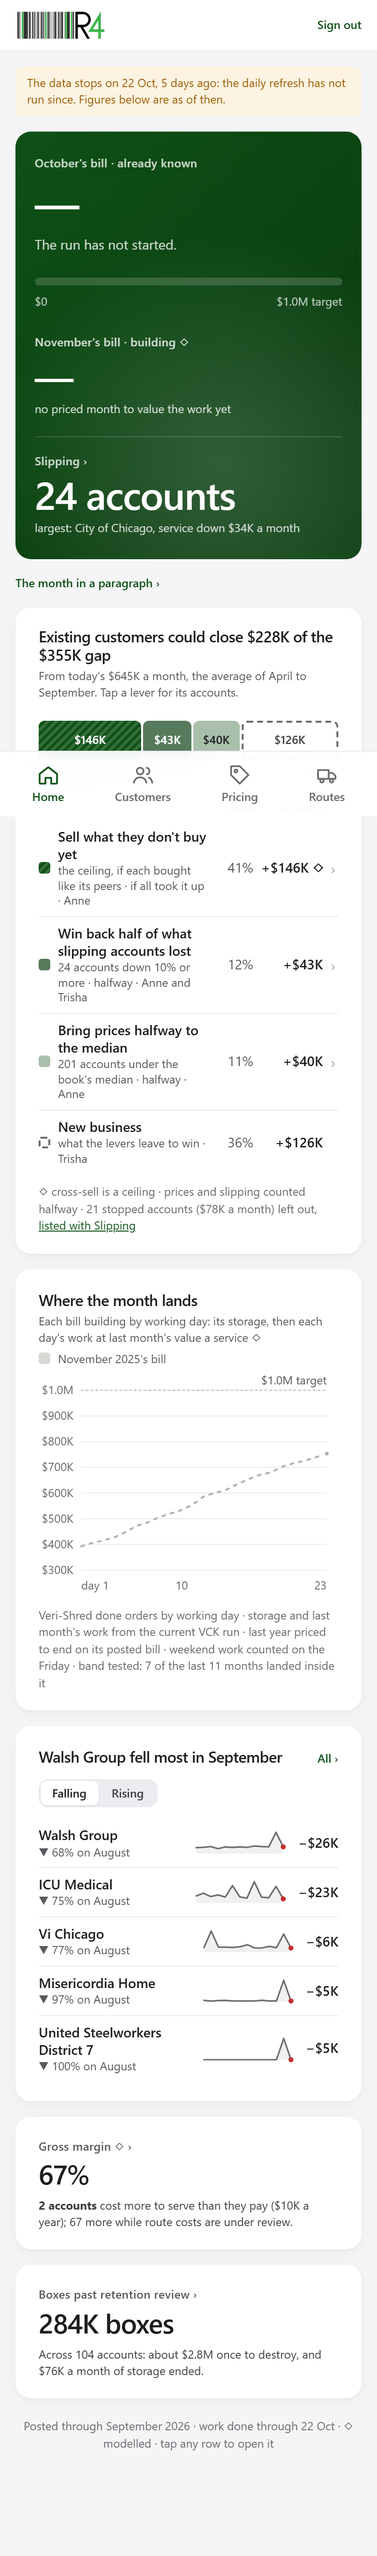
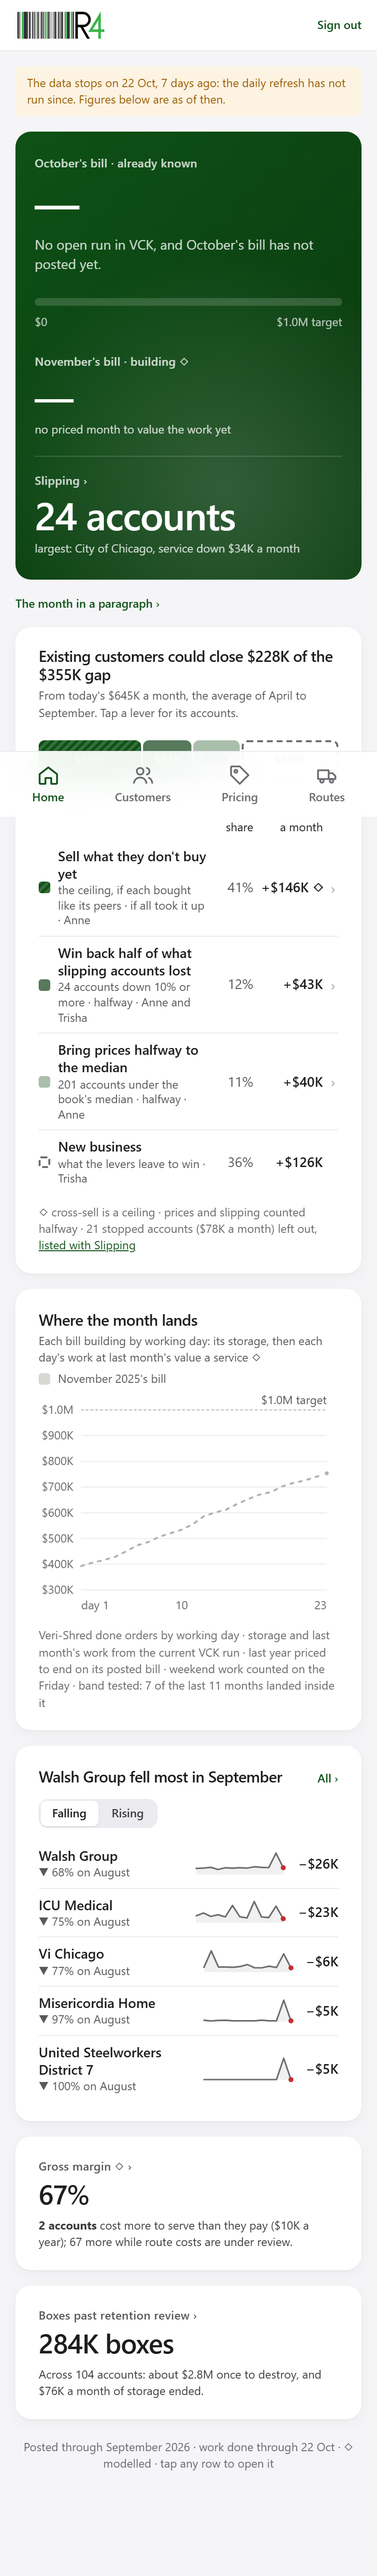
Home: once the month's run has posted, the bill already known is the posted month, not an empty run
billNow(P, workMonth) returns the open run, else the posted month being worked, else nothing (never an
older month). Its tests cover the three states on made-up figures; the projection test reads the
snapshot's storage either way. 24 of 26 offline; the two left need public/data/zcta.json.

diff --git a/public/views/pulse.js b/public/views/pulse.js
@@ -35,10 +35,12 @@ export async function render(main, P) {
   const [PR, A, CA, C, M, R] = await Promise.all([getJson('pricing'), getJson('activity'), getJson('calls'), getJson('customers'), getJson('margin'), loadRates()]);
 
   // ── the month ──
-  const last = P.monthly[P.monthly.length - 1];                 // the latest posted month
-  const billMonth = addMonths(last.month, 1);                     // the bill in the current run
-  const { run, core: runCore } = billNow(P);
   const workMonth = A.latestDone.slice(0, 8) + '01';              // the month being worked now
+  // the bill already known: the open run, or, once it has posted, the month's posted bill
+  const bill = billNow(P, workMonth), run = bill.basis, runCore = bill.core;
+  const latest = P.monthly[P.monthly.length - 1];                 // the latest posted month
+  const billMonth = bill.posted ? latest.month : addMonths(latest.month, 1);
+  const last = bill.posted ? P.monthly[P.monthly.length - 2] : latest;   // the bill before it, to compare
   const daily = dailyFrom(P, A);
   const doneIn = m => daily.filter(r => r.date.startsWith(m.slice(0, 7))).reduce((t, r) => t + r.done, 0);
   // the work in the current run is last month's: its value per done service prices this month's work ◇
@@ -75,7 +77,7 @@ export async function render(main, P) {
   const nb = addMonths(billMonth, 1), top = mv.falls[0], gain = mv.gains[0];
   const sheet = [
     age > 2 && { key: 'stale', line: `The data stops on ${dayMonth(A.latestDone)}, ${age} days ago; the daily refresh has not run since` },
-    runCore != null && { key: 'bill', line: `${mon(billMonth)}'s bill, already known: ${moneyK(runCore)} core, ${Math.round(runCore / TARGET * 100)}% of the $1.0M target, ${pct(runCore / last.core - 1).replace('▲ ', 'up ').replace('▼ ', 'down ')} on ${mon(last.month)}'s ${moneyK(last.core)}`,
+    runCore != null && { key: 'bill', line: `${mon(billMonth)}'s bill, ${bill.posted ? 'posted' : 'already known'}: ${moneyK(runCore)} core, ${Math.round(runCore / TARGET * 100)}% of the $1.0M target, ${pct(runCore / last.core - 1).replace('▲ ', 'up ').replace('▼ ', 'down ')} on ${mon(last.month)}'s ${moneyK(last.core)}`,
       say: `${mon(billMonth)} bills ${moneyK(runCore)}, ${Math.round(runCore / TARGET * 100)}% of the $1.0M target.` },
     X.bill && { key: 'next', line: `${mon(nb)}'s bill, building from ${mon(workMonth)}'s work: about ${moneyK(X.bill.central)} ◇ (likely ${moneyK(X.bill.lo)} to ${moneyK(X.bill.hi)}), ${moneyK(TARGET - X.bill.central)} short of $1.0M; ${X.elapsed} of ${X.workdays} working days in`,
       say: `${mon(nb)} is heading for about ${moneyK(X.bill.central)} ◇, likely ${moneyK(X.bill.lo)} to ${moneyK(X.bill.hi)}.` },
@@ -92,8 +94,8 @@ export async function render(main, P) {
   const at = x => (Math.max(0, Math.min(1, x / TARGET)) * 100).toFixed(2) + '%';
   const track = `<div class="hb-track">${runCore != null ? `<span class="hb-fill grow" style="width:${at(runCore)}"></span>` : ''}${X.bill ? `<span class="hb-range" style="left:${at(X.bill.lo)};width:${at(X.bill.hi - X.bill.lo)}"></span><span class="hb-tick" style="left:${at(X.bill.central)}"></span>` : ''}</div>
       <div class="hb-ends"><span>$0</span><span><span class="gap-wide">${X.bill ? `${mon(nb)} likely ${moneyK(X.bill.lo)}–${moneyK(X.bill.hi)} ◇ · ` : ''}</span>$1.0M target</span></div>`;
-  const billFig = `<span class="hb-lab">${mon(billMonth)}'s bill · already known</span><span class="hb-fig">${runCore != null ? moneyK(runCore) : '—'}</span>`;
-  const billNote = dBill != null ? `<p class="hb-note"><span class="hb-pill ${dBill < 0 ? 'down' : ''}">${pct(dBill)}</span> on ${mon(last.month)} · <b>${Math.round(runCore / TARGET * 100)}%</b> of $1.0M</p>` : '<p class="hb-note">The run has not started.</p>';
+  const billFig = `<span class="hb-lab">${mon(billMonth)}'s bill · ${bill.posted ? 'posted' : 'already known'}</span><span class="hb-fig">${runCore != null ? moneyK(runCore) : '—'}</span>`;
+  const billNote = dBill != null ? `<p class="hb-note"><span class="hb-pill ${dBill < 0 ? 'down' : ''}">${pct(dBill)}</span> on ${mon(last.month)} · <b>${Math.round(runCore / TARGET * 100)}%</b> of $1.0M</p>` : `<p class="hb-note">No open run in VCK, and ${mon(billMonth)}'s bill has not posted yet.</p>`;
   const nextFact = `<span class="hb-lab">${mon(nb)}'s bill · building ◇</span><b>${nextBill != null ? '≈ ' + moneyK(nextBill) : '—'}</b><small>${X.bill ? `likely ${moneyK(X.bill.lo)} to ${moneyK(X.bill.hi)} · working day ${X.elapsed} of ${X.workdays}` : 'no priced month to value the work yet'}</small>`;
   const slipFact = `<span class="hb-lab">Slipping ›</span><b>${mv.slipping} accounts</b><small>${top ? `largest: ${esc(titleCase(top.customer))}, ${esc(top.why)}` : 'none down 10% on their own run'}</small>`;
 
@@ -119,7 +121,7 @@ export async function render(main, P) {
     `Across ${B.overdue.accounts} accounts: about ${moneyK(B.overdue.oneOff)} once to destroy, and ${moneyK(B.overdue.storageLost)} a month of storage ended.`);
   const tiles = `<div class="tiles">${marginTile}${boxesTile}</div>`;
   const brief = `<details class="brief" data-rv><summary>The month in a paragraph ›</summary><p id="home-hv"></p><p class="src" id="home-by"></p></details>`;
-  const foot = `<div class="foot">Posted through ${mon(last.month)} ${last.month.slice(0, 4)} · work done through ${dayMonth(A.latestDone)} · ◇ modelled · tap any row to open it</div>`;
+  const foot = `<div class="foot">Posted through ${mon(latest.month)} ${latest.month.slice(0, 4)} · work done through ${dayMonth(A.latestDone)} · ◇ modelled · tap any row to open it</div>`;
 
   // Two layouts on trial beside the current one (?home=a, ?home=b), the same figures in each:
   //   a, a calm ledger: the bill on white with its track, then three tiles, the bridge, the chart wide;
@@ -176,7 +178,7 @@ export async function render(main, P) {
     ].filter(x => x.points.length),
     cone: X.bill && thisMonth.length ? { from: thisMonth[thisMonth.length - 1], to: X.workdays, lo: X.bill.lo, c: X.bill.central, hi: X.bill.hi } : null,
     days: X.workdays, target: TARGET,
-    source: `Veri-Shred done orders by working day · storage and last month's work from the current VCK run · ${lastYear.length ? 'last year priced to end on its posted bill' : 'last year joins with the next snapshot'} · weekend work counted on the Friday · ${X.backtest ? `band tested: ${X.backtest.hits} of the last ${X.backtest.n} months landed inside it` : 'band untested until fifteen months of daily work'}`,
+    source: `Veri-Shred done orders by working day · storage and last month's work from ${bill.posted ? `${mon(billMonth)}'s posted bill` : 'the current VCK run'} · ${lastYear.length ? 'last year priced to end on its posted bill' : 'last year joins with the next snapshot'} · weekend work counted on the Friday · ${X.backtest ? `band tested: ${X.backtest.hits} of the last ${X.backtest.n} months landed inside it` : 'band untested until fifteen months of daily work'}`,
   });
   reveal(main.querySelector('.h'));
 }

diff --git a/model/levers.test.js b/model/levers.test.js
@@ -60,8 +60,18 @@ test('slipping, pace and the bill: each figure shown twice comes from one source
   assert.ok(slipList.every(d => d.move.pct <= -0.1), 'every slipping account is down 10% or more on its own run');
   assert.ok(!slipList.some(d => d.level1 === 6714), 'Citadel held apart');
   assert.deepEqual(B.pace, crossSellPace(M.history), 'Home and the grid read one pace');
-  const run = P.currentRun.find(r => r.part === 'run');
-  near(billNow(P).core, run.storage + run.service - run.citadel, 0.01, 'bill = run core');
+  // the bill already known, in its three states, on made-up figures (a snapshot holds only one)
+  const sep = { month: '2026-09-01', storage: 380, service: 200, citadel: 20, core: 560 };
+  const oct = { month: '2026-10-01', storage: 390, service: 250, citadel: 30, core: 610 };
+  const open = { part: 'run', storage: 395, service: 260, citadel: 10 }, pending = { part: 'pending', storage: 0, service: 6, citadel: 0 };
+  const b1 = billNow({ monthly: [sep], currentRun: [open, pending] }, '2026-10-01');
+  assert.ok(!b1.posted && b1.basis === open, 'an open run is the bill');
+  near(b1.core, 395 + 260 - 10, 0.01, 'bill = run core');
+  const b2 = billNow({ monthly: [sep, oct], currentRun: [pending] }, '2026-10-01');
+  assert.ok(b2.posted && b2.month === '2026-10-01' && b2.basis === oct, 'once the run posts, the month being worked is the posted bill');
+  near(b2.core, 610, 0.01, 'posted bill = its core');
+  const b3 = billNow({ monthly: [sep], currentRun: [pending] }, '2026-10-01');
+  assert.ok(b3.core == null && !b3.posted, 'no run and nothing posted for the month: no figure, never an older month');
 });
 
 test('projection: done to date + days left × pace; the band is backtested leave-one-out', async () => {
@@ -82,9 +92,10 @@ test('projection: done to date + days left × pace; the band is backtested leave
   assert.ok(x.services.lo <= x.services.central && x.services.central <= x.services.hi, 'band holds the central');
   assert.ok(x.services.lo >= x.doneToDate, 'never below the work already done');
   // on the fixtures (no backtest yet): the bill is the storage plus the work at last month's value
-  const P = J('pulse'), A = J('activity'), run = P.currentRun.find(r => r.part === 'run');
-  const f = project({ daily: dailyFrom(P, A), latest: A.latestDone, perService: 114.5, storage: run.storage, routeDays: A.routeDays });
-  near(f.bill.central, run.storage + f.services.central * 114.5, 1e-6, 'fixture bill');
+  // the snapshot's storage: its open run, or the latest posted month once the run has posted
+  const P = J('pulse'), A = J('activity'), storage = (P.currentRun.find(r => r.part === 'run') || P.monthly[P.monthly.length - 1]).storage;
+  const f = project({ daily: dailyFrom(P, A), latest: A.latestDone, perService: 114.5, storage, routeDays: A.routeDays });
+  near(f.bill.central, storage + f.services.central * 114.5, 1e-6, 'fixture bill');
   // a past month's curve ends on its total
   const c = curve(daily, '2026-09-01', 100, 0);
   near(c[c.length - 1].done, daily.filter(r => r.date.startsWith('2026-09')).reduce((t, r) => t + r.done, 0), 1e-6, 'curve total');

diff --git a/public/components/levers.js b/public/components/levers.js
@@ -70,11 +70,16 @@ export function overdueBoxes(CA, PR) {
   return { rows, perBox, med, boxes: sum('boxes'), oneOff: sum('once'), storageLost: sum('lost'), accounts: rows.length };
 }
 
-// This month's bill, already known: the run not yet posted (this month's storage, last month's
-// work), Citadel apart.
-export function billNow(P) {
+// This month's bill, already known (this month's storage, last month's work), Citadel apart: the run
+// while VCK holds it open; once the run posts its rows move to invoices, so the bill is that posted
+// month, if it is the month being worked (workMonth, 'YYYY-MM-01'). `basis` carries storage, service
+// and citadel either way; `posted` says which it is.
+export function billNow(P, workMonth) {
   const run = P.currentRun.find(r => r.part === 'run');
-  return { run, core: run ? run.storage + run.service - run.citadel : null };
+  if (run) return { run, basis: run, core: run.storage + run.service - run.citadel, month: null, posted: false };
+  const last = P.monthly[P.monthly.length - 1];
+  if (workMonth && last && last.month.slice(0, 7) === workMonth.slice(0, 7)) return { run: null, basis: last, core: last.core, month: last.month, posted: true };
+  return { run: null, basis: null, core: null, month: null, posted: false };
 }
 
 // Down: the last three months at least 10% and $250 a month below the account's own twelve before
